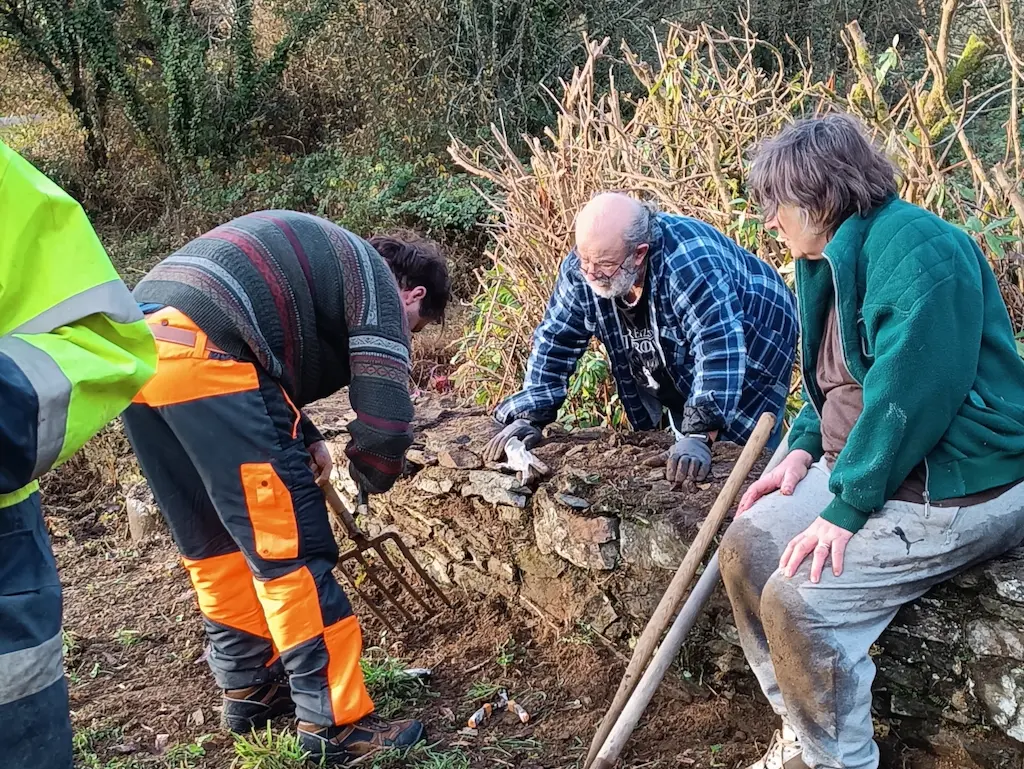
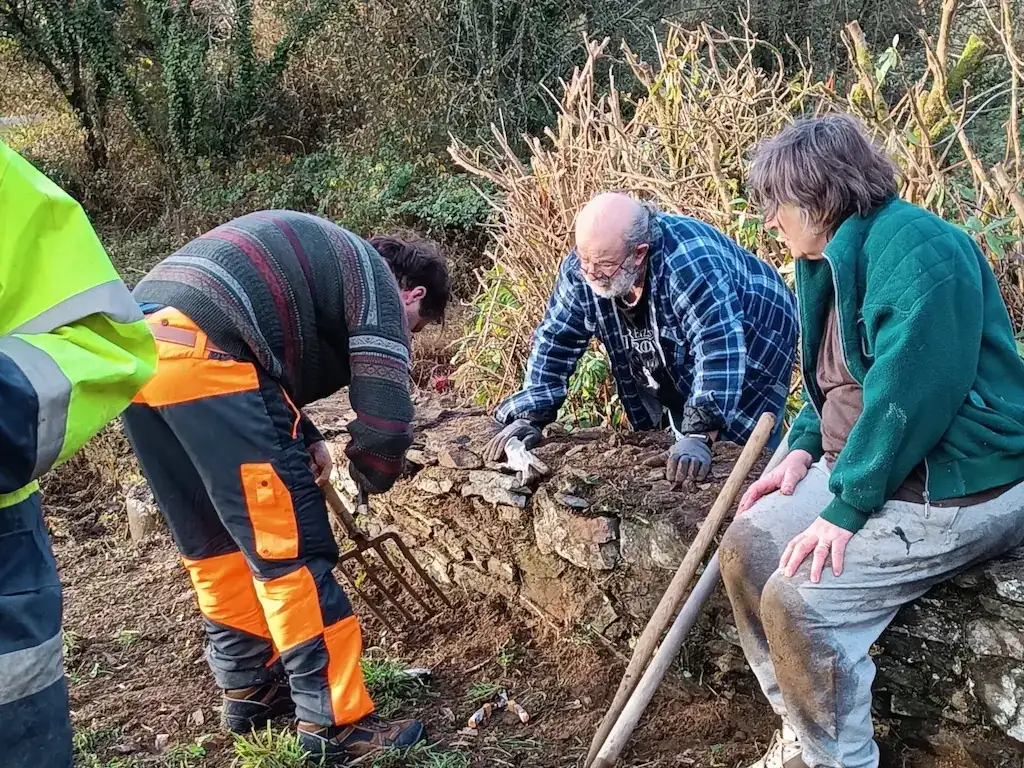
resize pictures

diff --git a/website/src/components/PhotoCarousel/styles.module.css b/website/src/components/PhotoCarousel/styles.module.css
@@ -24,7 +24,7 @@
 .slide {
   flex: 0 0 100%;
   margin: 0;
-  min-height: clamp(260px, 56vw, 560px);
+  aspect-ratio: 4 / 3;
   display: flex;
   flex-direction: column;
   align-items: center;
@@ -35,7 +35,7 @@
 .slide img {
   display: block;
   width: 100%;
-  height: clamp(260px, 56vw, 560px);
+  height: 100%;
   object-fit: contain;
   background: transparent;
 }
@@ -160,11 +160,13 @@
 .fullscreenShell .slide {
   min-height: 0;
   height: 100%;
+  aspect-ratio: auto;
   background: transparent;
 }
 
 .fullscreenShell .slide img {
   height: 100%;
+  object-fit: contain;
   background: transparent;
 }
 
@@ -193,14 +195,6 @@
 }
 
 @media (max-width: 768px) {
-  .slide {
-    min-height: clamp(220px, 72vw, 420px);
-  }
-
-  .slide img {
-    height: clamp(220px, 72vw, 420px);
-  }
-
   .navButton {
     width: 2.6rem;
     height: 2.6rem;
